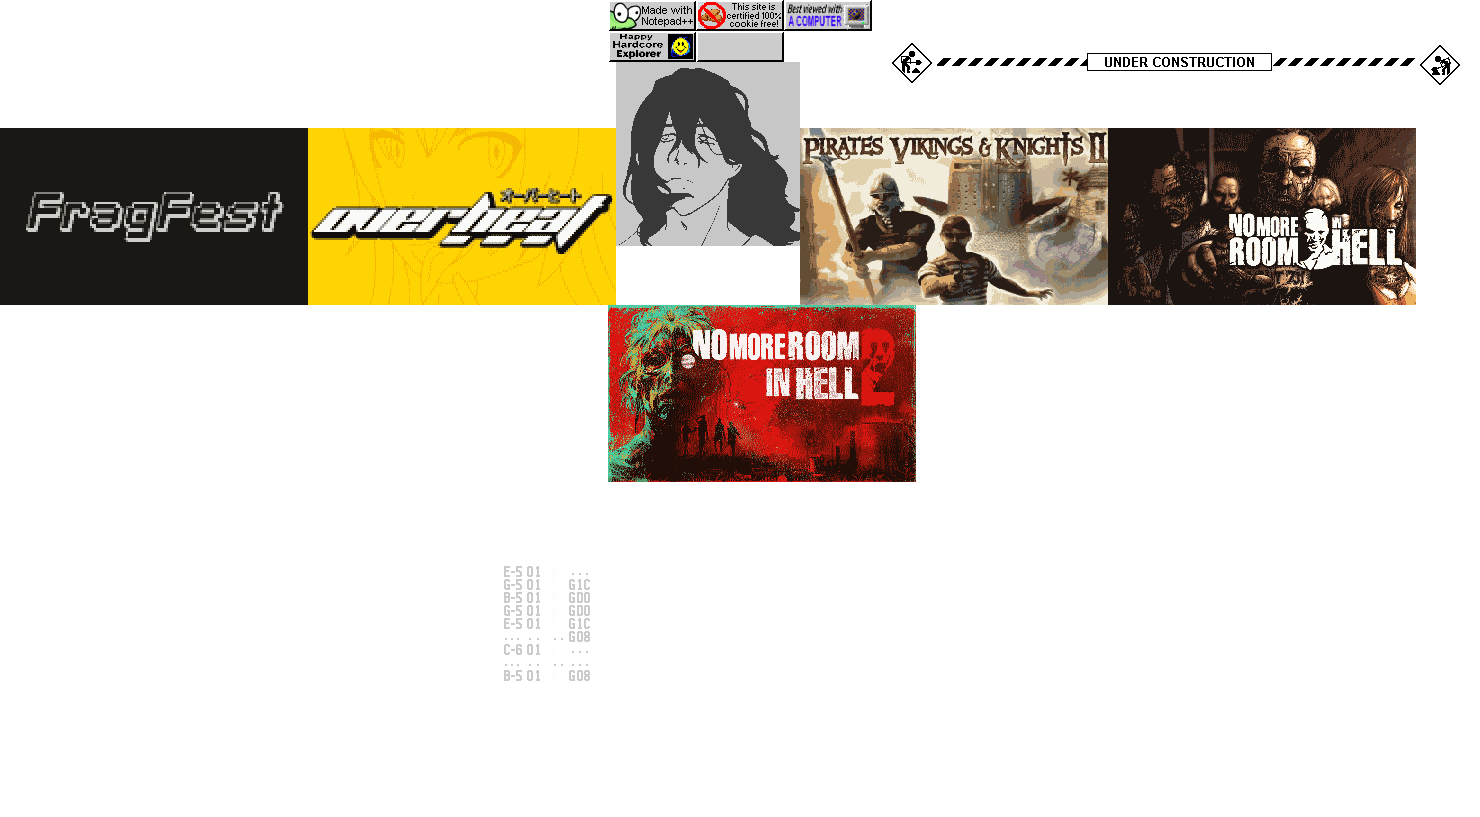
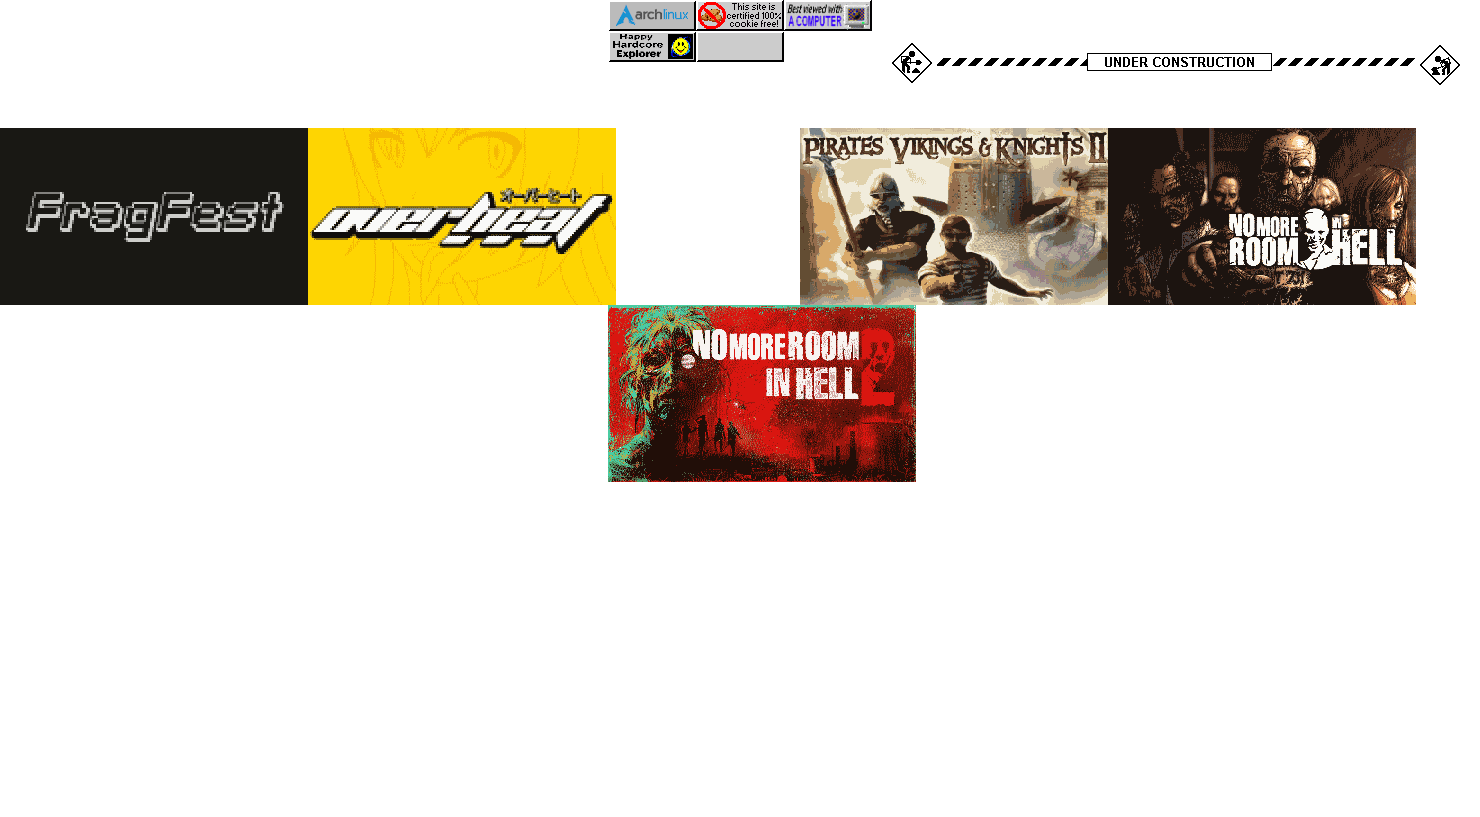
update misc

Changed region(s): [[0.4041, 0.0612, 0.5595, 0.306], [0.3419, 0.7038, 0.4041, 0.8262], [0.4041, 0.0, 0.4662, 0.0306]]

diff --git a/index.html b/index.html
@@ -283,8 +283,7 @@ button.sld:hover {
 <div class="s">id analysis<br></div>
 about me
 <hr class="sep">
-<a id="pfp" title=""><img id="pfpimg" class=pfpstyle src="a.png" draggable="false"></a>
-i'm fel, a programmer, gamedev, whatever-i-feel-like-doing person.<br><br>
+i'm fel, a programmer, gamedev, computer enthusiast, whatever-i-feel-like-doing person.<br><br>
 this site evolves, and it's currently a dumping ground for various things i've made - most of it probably speaks for itself, with little gimmicks.<br><br>
 feel free to contact me via email for inquiries.<br><br>
 thanks for stopping by! &#x263A;
@@ -293,7 +292,7 @@ thanks for stopping by! &#x263A;
 <div style="text-align:center">
 <div class="box"><div class="nfo">
 <div style="text-align:center">
-<a href="https://notepad-plus-plus.org/" target="_blank"><img id="btns-1" class=btn src="a.png"></a>
+<a href="https://archlinux.org/" target="_blank"><img id="btns-1" class=btn src="a.png"></a>
 <img id="btns-2" class=btn src="a.png" draggable="false">
 <img id="btns-3" class=btn src="a.png" draggable="false">
 <img id="btns-4" class=btn src="a.png" draggable="false">
@@ -419,23 +418,23 @@ soundtrack available <a href=https://thewiretrippers.bandcamp.com/album/overheat
 </div>
 <div class="sect" id="s_things">
 <br>
-<img id="logos-4" class=logo src="a.png">
-<br>
+<img id="logos-6" class=logo src="a.png">
 <div style="text-align:center">
 <div class="box"><div class="nfo">
-<div class="s">info<br></div>
-i produce music as a hobby, usually the more niche stuff heavily driven by my current taste at the time. i'm fairly solitary when it comes to that, so i don't release much of my work.
+<div class="s">misc.<br></div>
+whatever else
 <hr class="sep">
 <a href=tracker/>tracker music archive</a><br>
-<div class="s">a directory spanning over a decade of modules with varying quality, mostly old stuff<br>this collection is for backup/inspiration, but it could make for an interesting dive<br>OpenMPT recommended for playback, NSF files require NSFPlay or equivalent</div>
+<div class="s">spanning over a decade of own work with varying quality, mostly old stuff<br>this collection is for backup/inspiration, but it could make for an interesting dive<br>OpenMPT recommended for playback, NSF files require NSFPlay or equivalent</div>
 <hr class="sep">
-<a href=https://soundcloud.com/felis-catus-1 target="_blank">personal soundcloud for whatever</a><br>
-<div class="s">the content may vary</div>
+<a href=fastdl/pvkii/maps/>pvkii map archive</a><br>
+<div class="s">hundreds of maps collected over time, with some rarities?</div>
+<hr class="sep">
+<a href=res/script_help.txt>nmrih vscript reference</a><br>
+<div class="s">yes, it's a text file.</div>
 </div></div>
 <br><br>
 </div>
-<img id="logos-6" class=logo src="a.png">
-<br>
 </div>
 <div class="sect" id="s_contact">
 <br>
@@ -469,7 +468,7 @@ msg[11] = "date modified: a long time ago";
 msg[12] = "sorry nothing";
 msg[13] = "&#x2665;";
 var rnd = Math.floor(Math.random() * msg.length);
-document.getElementById("size").innerHTML = "87,0 KB (89 156 bytes) in use";
+document.getElementById("size").innerHTML = "84,3 KiB (86 352 bytes) in use";
 document.getElementById("copymsg").innerHTML = msg[rnd];
 </script>
 </div>
